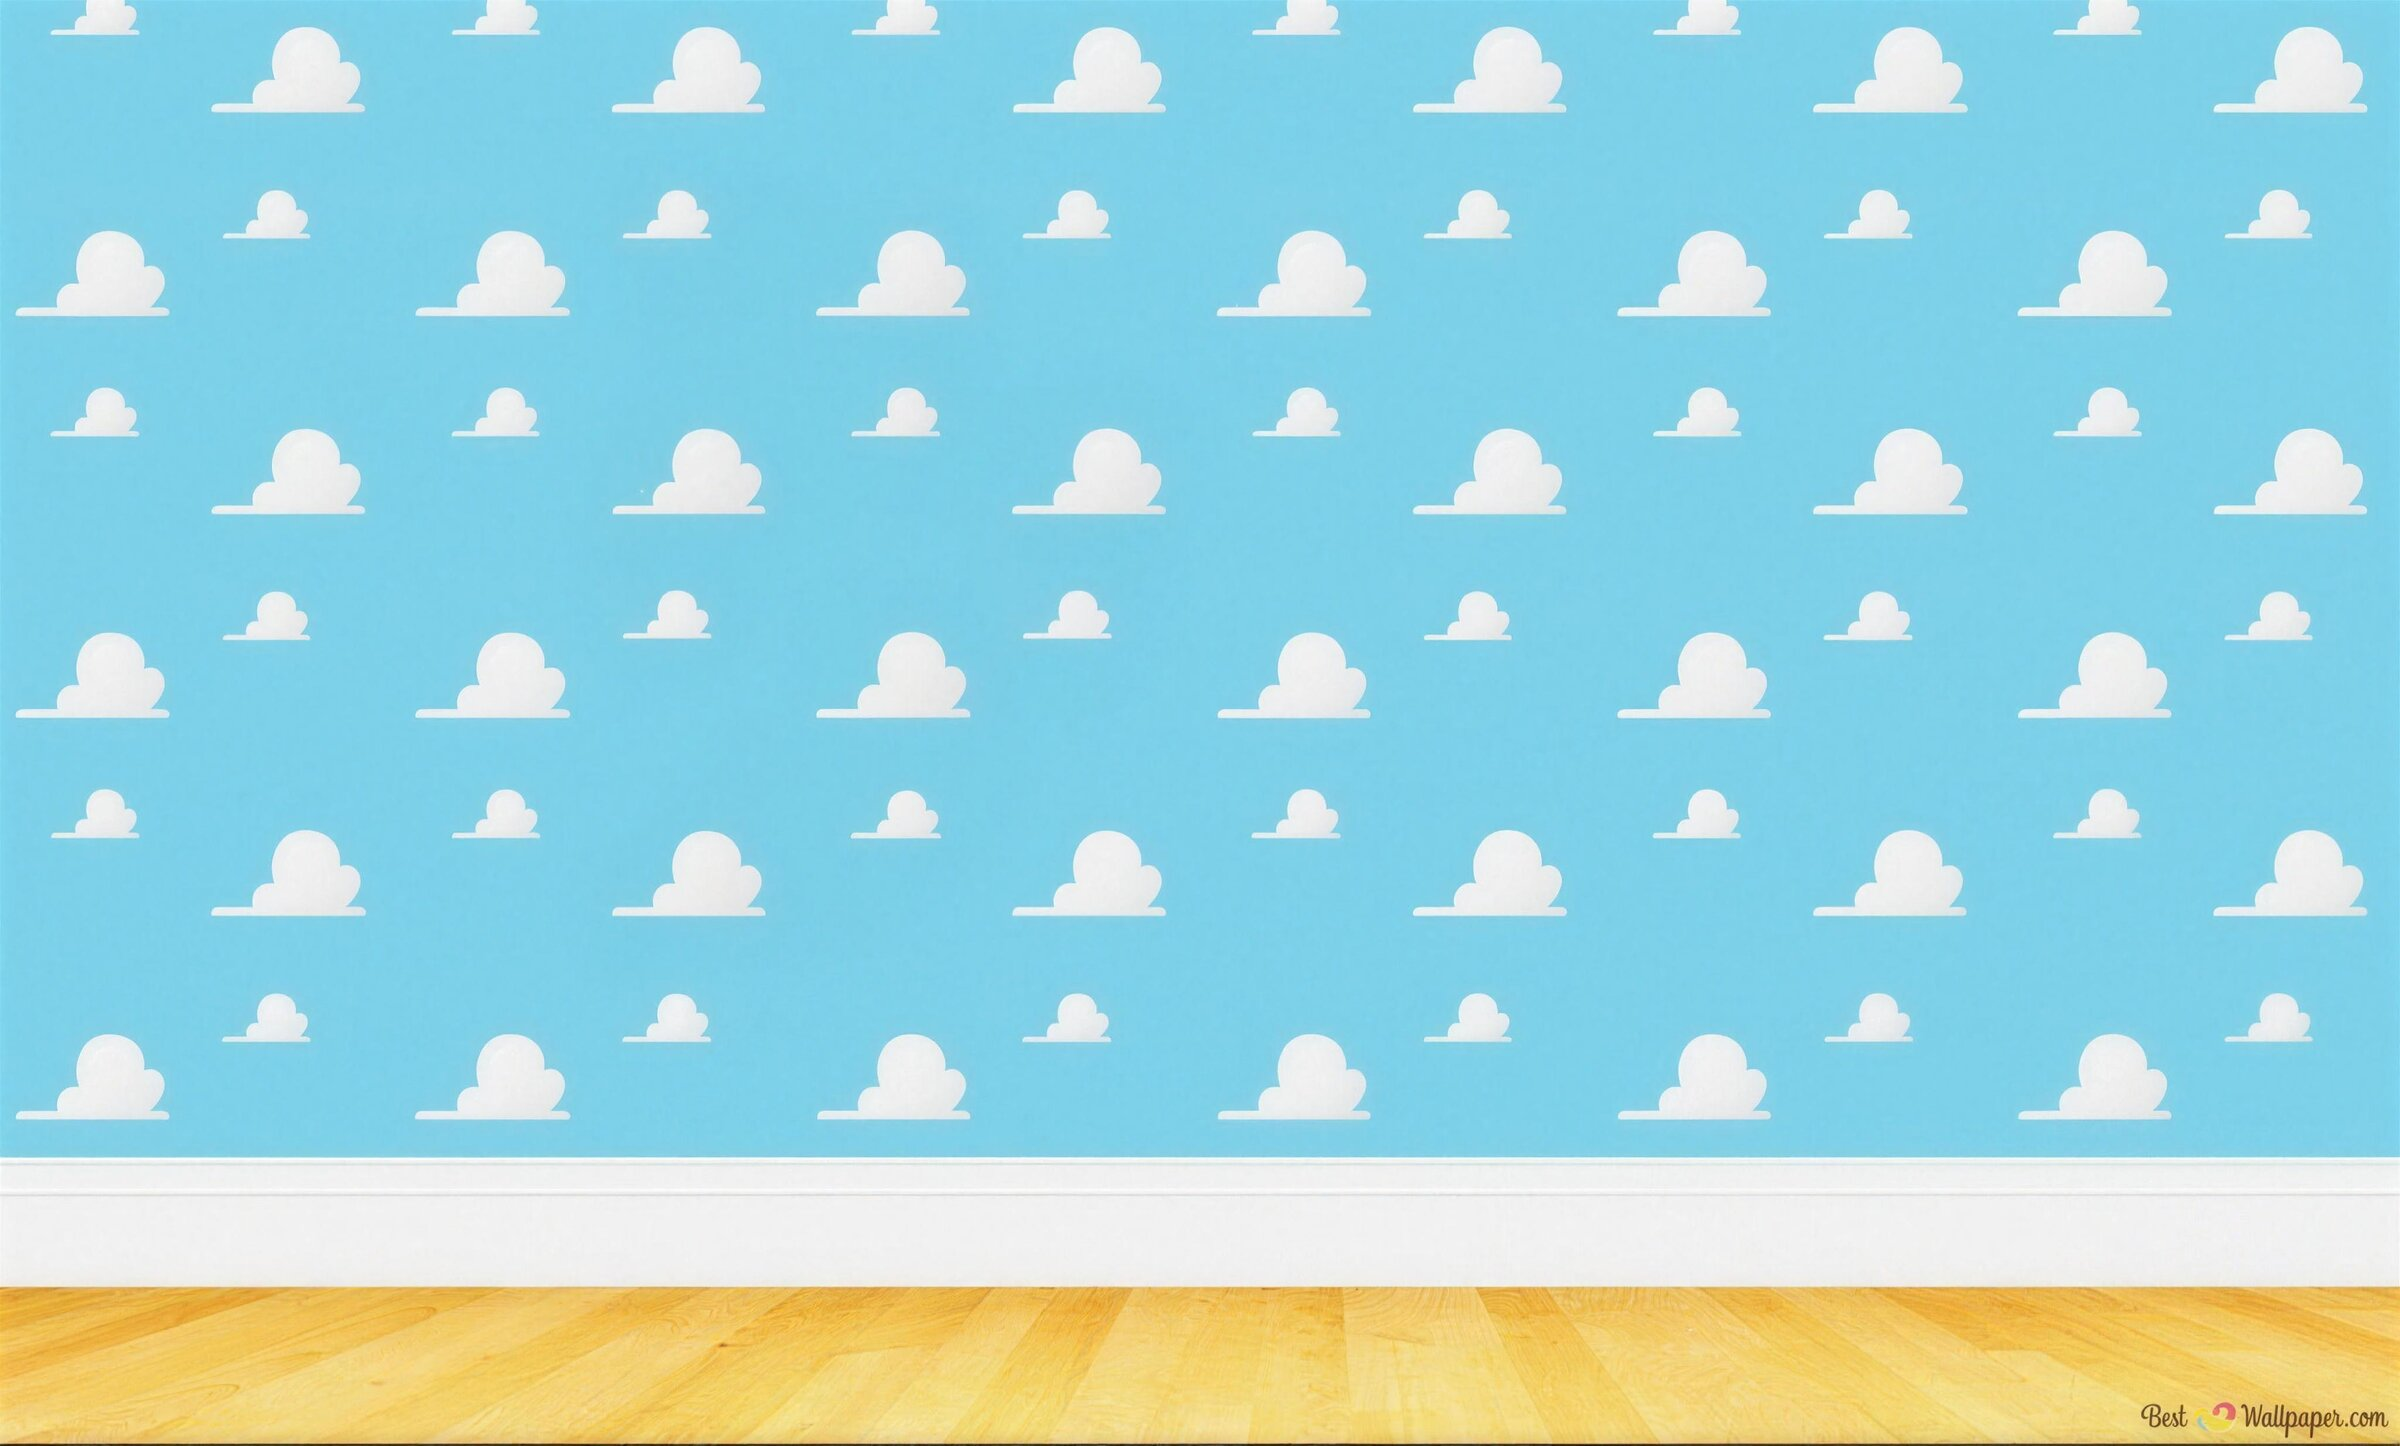
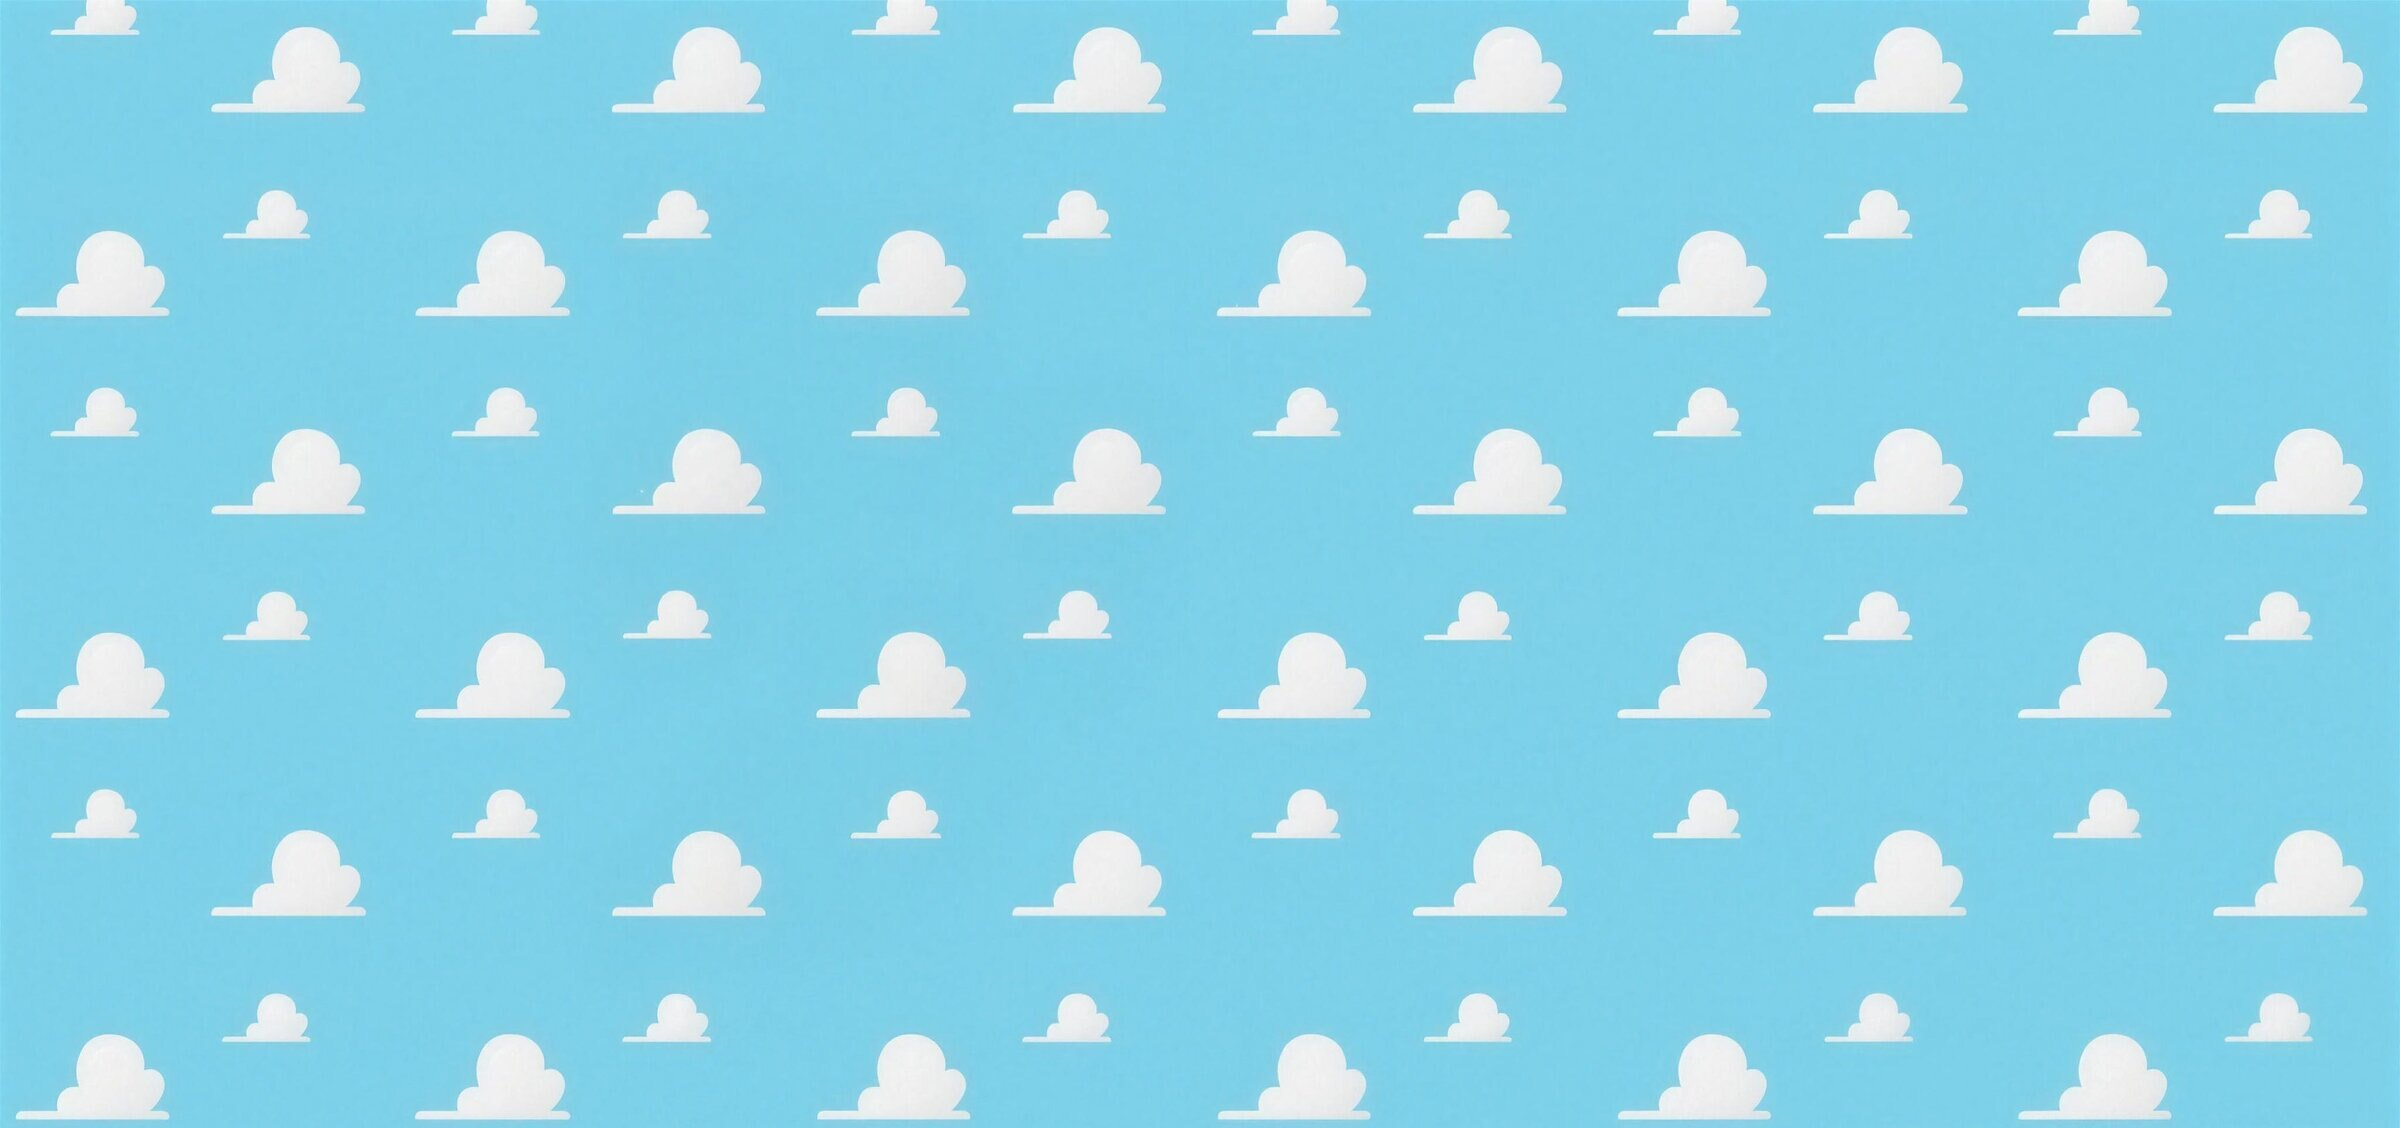
Toy Story cover: no numeral, no floor strip, BR x Toy Story 5 lockup; sharper One Piece
- Toy Story cover: wallpaper cropped above the floor line, a white
  Baskin-Robbins x Toy Story 5 logo lockup under the title, title sized
  to clear the poster; cover poster and wallpaper upscaled to 4K.
- One Piece: 4K cover art (Higgsfield upscale), a new 3:4 home card
  built from outpainted, upscaled art with the Baskin-Robbins x One
  Piece lockup set large in the sky; sharper logos.

Claude-Session: https://claude.ai/code/session_01VFuQ8EM4aF5hAZF99DJY4M

diff --git a/work/toy-story-lets-play.html b/work/toy-story-lets-play.html
@@ -10,7 +10,7 @@
 <link href="https://fonts.googleapis.com/css2?family=Inter+Tight:wght@300;400;500;900&family=Noto+Sans+KR:wght@300;400;500&family=Gothic+A1:wght@700;800;900&family=Bowlby+One&family=Caveat:wght@500&display=swap" rel="stylesheet">
 <link rel="stylesheet" href="../assets/style.css?v=36">
 <link href="../assets/motion.css?v=7" rel="stylesheet"/>
-<link href="../assets/case.css?v=24" rel="stylesheet"/>
+<link href="../assets/case.css?v=28" rel="stylesheet"/>
 <script>
 if(!localStorage.getItem("aw_unlocked"))document.documentElement.className+=" gated";
 document.documentElement.lang=localStorage.getItem("aw_lang")||"en";
@@ -42,7 +42,7 @@ html[lang="ko"] .ptext>.ko,html[lang="ko"] .about-body>.ko{display:block}
 <section class="win cs-cover cv-left cv-ts" style="--num:#2a7be4" aria-labelledby="cs-title">
   <div class="cv-art"><img src="../assets/img/toy-story-lets-play/cover-wall.jpg" alt=""/></div>
   <span class="cv-num" aria-hidden="true">6</span>
-  <div class="cv-title"><p class="cv-k"><span class="en">Let’s Play! · June campaign plan</span><span class="ko">렛츠 플레이! · 6월 캠페인 기획안</span></p><h1 class="cv-h" id="cs-title"><span class="en">Baskin&#8209;Robbins<br/>× Toy Story 5</span><span class="ko">배스킨라빈스<br/>× 토이스토리 5</span></h1><p class="cv-d"><span class="en">30 March 2026 · Marketing Strategy, Senior Team</span><span class="ko">2026.3.30. 마케팅전략실 시니어스팀</span></p></div>
+  <div class="cv-title"><p class="cv-k"><span class="en">Let’s Play! · June campaign plan</span><span class="ko">렛츠 플레이! · 6월 캠페인 기획안</span></p><h1 class="cv-h" id="cs-title"><span class="en">Baskin&#8209;Robbins<br/>× Toy Story 5</span><span class="ko">배스킨라빈스<br/>× 토이스토리 5</span></h1><p class="cv-d"><span class="en">30 March 2026 · Marketing Strategy, Senior Team</span><span class="ko">2026.3.30. 마케팅전략실 시니어스팀</span></p><img class="cv-lockup" src="../assets/img/toy-story-lets-play/lockup.png" alt="Baskin-Robbins × Toy Story 5"/></div>
   <figure class="cv-poster"><img src="../assets/img/toy-story-lets-play/cover-poster.jpg" alt="Toy Story 5 poster"/></figure>
 </section>
 <section class="win cs-intro">

diff --git a/assets/case.css b/assets/case.css
@@ -516,3 +516,13 @@ html[lang="ko"] .cv-h .ko, .cv-h .ko { font-family: "Gothic A1", "Noto Sans KR",
 .cv-num, .cs-n { display: none !important; }
 .cs-head { grid-template-columns: 1fr; }
 .cv-h .en, .cv-h .ko { white-space: normal; }
+.cv-lockup { display: block; width: min(26rem, 92%); height: auto; margin-top: 1rem; background: transparent !important; border: 0 !important; filter: drop-shadow(0 4px 10px rgba(0,0,0,.25)); }
+.cv-ts .cv-art img { height: 100% !important; object-position: 50% 50%; }
+.cs-cover.cv-ts .cv-h { font-size: clamp(1.7rem, 3.5vw, 3.3rem); }
+.cs-cover.cv-ts .cv-title { max-width: 42%; }
+.cs-cover.cv-ts .cv-poster { width: 37%; right: 5%; }
+.cs-cover.cv-ts .cv-poster { width: auto; height: 92%; top: 4%; bottom: auto; right: 4%; }
+.cs-cover.cv-ts .cv-h { font-size: clamp(1.6rem, 3.1vw, 3rem); }
+.cs-cover.cv-ts .cv-title { max-width: 46%; }
+.cs-cover.cv-ts .cv-h, .cs-cover.cv-ts .cv-h .en, .cs-cover.cv-ts .cv-h .ko { font-size: clamp(1.6rem, 3vw, 2.9rem); }
+.cs-cover.cv-ts .cv-h, .cs-cover.cv-ts .cv-h .en, .cs-cover.cv-ts .cv-h .ko { font-size: clamp(2rem, 3.4vw, 3.2rem); }

diff --git a/index.html b/index.html
@@ -113,7 +113,7 @@ window.awImg=function(el){
 <span class="card-title">Baskin-Robbins × Pokémon</span>
 <span class="card-place">Seoul, Korea · 2026</span>
 </span></a></li><li class="card"><a href="work/one-piece-adventure.html">
-<span class="card-img"><img alt="Baskin-Robbins × One Piece" decoding="async" loading="lazy" src="assets/img/one-piece-adventure/26.jpg"/></span>
+<span class="card-img"><img alt="Baskin-Robbins × One Piece" decoding="async" loading="lazy" src="assets/img/one-piece-adventure/card.jpg"/></span>
 <span class="card-body">
 <span class="card-title">Baskin-Robbins × One Piece</span>
 <span class="card-place">Seoul, Korea · 2026</span>

diff --git a/work/baskin-robbins-popup.html b/work/baskin-robbins-popup.html
@@ -10,7 +10,7 @@
 <link href="https://fonts.googleapis.com/css2?family=Inter+Tight:wght@300;400;500;900&family=Noto+Sans+KR:wght@300;400;500&family=Gothic+A1:wght@700;800;900&family=Bowlby+One&family=Caveat:wght@500&display=swap" rel="stylesheet">
 <link rel="stylesheet" href="../assets/style.css?v=36">
 <link href="../assets/motion.css?v=7" rel="stylesheet"/>
-<link href="../assets/case.css?v=24" rel="stylesheet"/>
+<link href="../assets/case.css?v=28" rel="stylesheet"/>
 <script>
 if(!localStorage.getItem("aw_unlocked"))document.documentElement.className+=" gated";
 document.documentElement.lang=localStorage.getItem("aw_lang")||"en";

diff --git a/work/one-piece-adventure.html b/work/one-piece-adventure.html
@@ -10,7 +10,7 @@
 <link href="https://fonts.googleapis.com/css2?family=Inter+Tight:wght@300;400;500;900&family=Noto+Sans+KR:wght@300;400;500&family=Gothic+A1:wght@700;800;900&family=Bowlby+One&family=Caveat:wght@500&display=swap" rel="stylesheet">
 <link rel="stylesheet" href="../assets/style.css?v=36">
 <link href="../assets/motion.css?v=7" rel="stylesheet"/>
-<link href="../assets/case.css?v=24" rel="stylesheet"/>
+<link href="../assets/case.css?v=28" rel="stylesheet"/>
 <script>
 if(!localStorage.getItem("aw_unlocked"))document.documentElement.className+=" gated";
 document.documentElement.lang=localStorage.getItem("aw_lang")||"en";

diff --git a/work/pokemon-ditto.html b/work/pokemon-ditto.html
@@ -10,7 +10,7 @@
 <link href="https://fonts.googleapis.com/css2?family=Inter+Tight:wght@300;400;500;900&family=Noto+Sans+KR:wght@300;400;500&family=Gothic+A1:wght@700;800;900&family=Bowlby+One&family=Caveat:wght@500&display=swap" rel="stylesheet">
 <link rel="stylesheet" href="../assets/style.css?v=36">
 <link href="../assets/motion.css?v=7" rel="stylesheet"/>
-<link href="../assets/case.css?v=24" rel="stylesheet"/>
+<link href="../assets/case.css?v=28" rel="stylesheet"/>
 <script>
 if(!localStorage.getItem("aw_unlocked"))document.documentElement.className+=" gated";
 document.documentElement.lang=localStorage.getItem("aw_lang")||"en";
